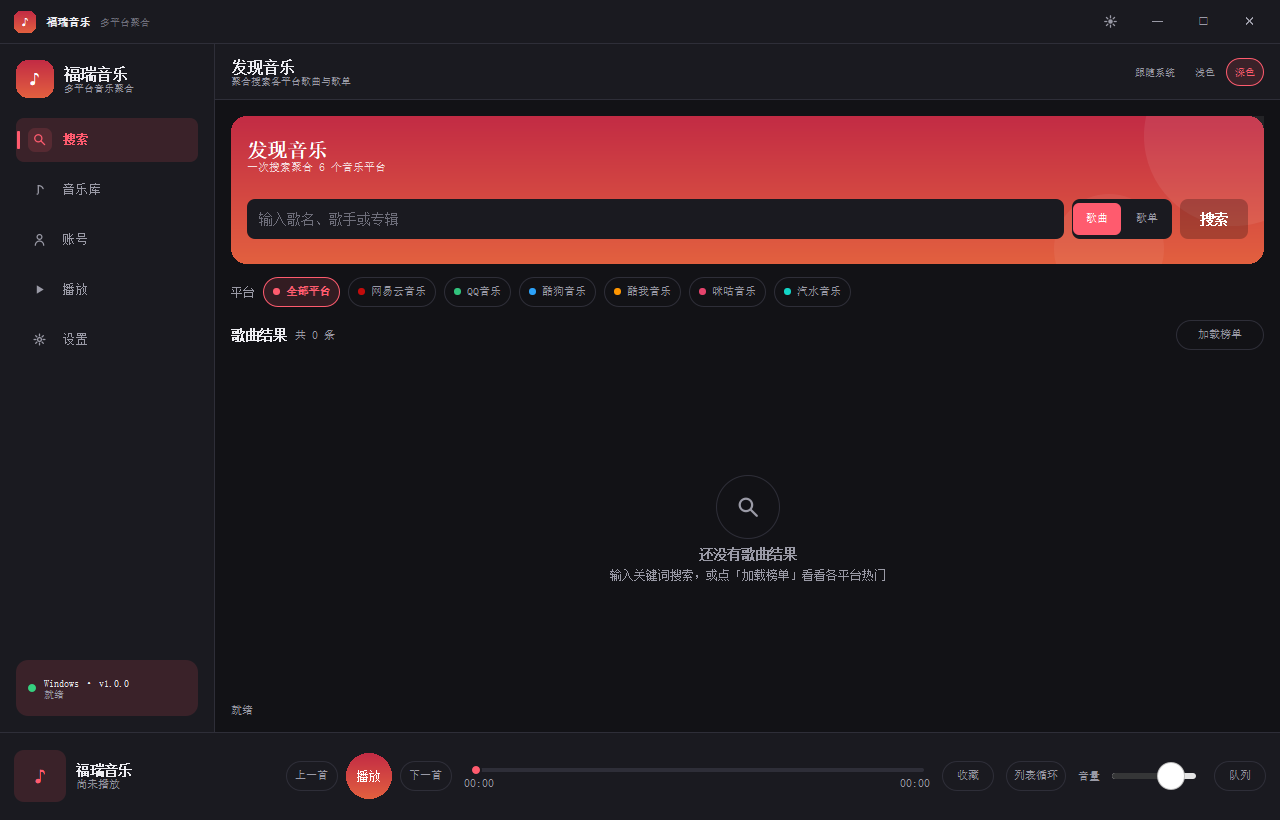
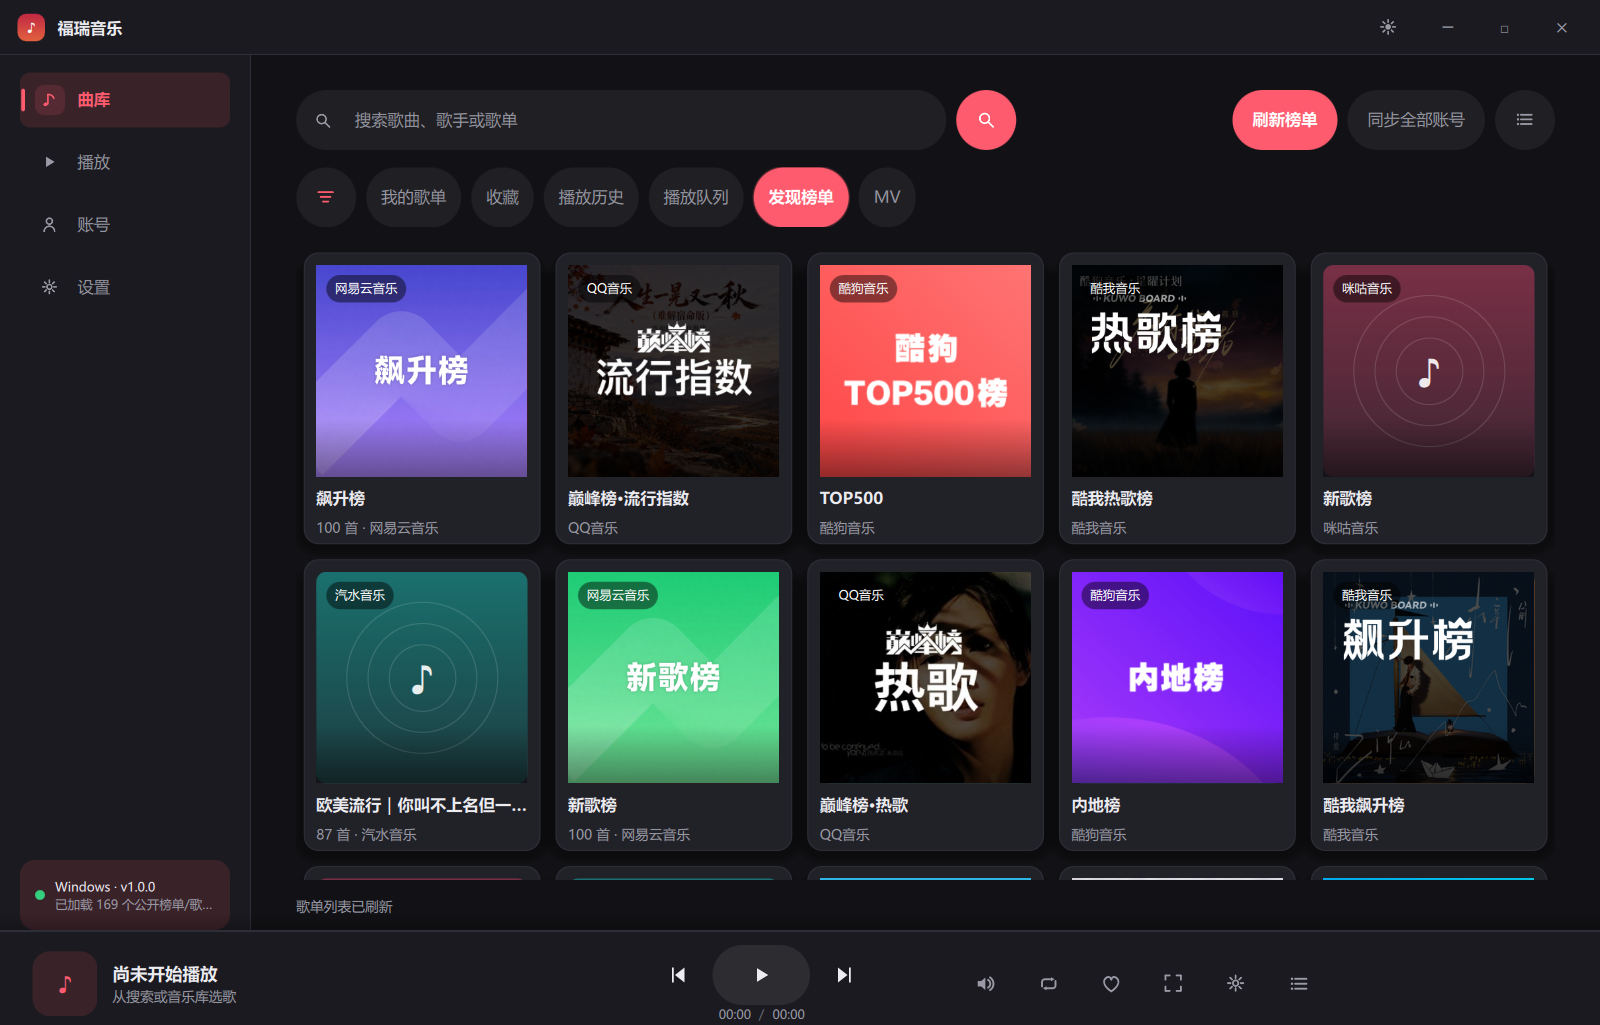
docs: 更新 README 版本产物目录章节与发现榜单截图
- README 新增「可分发产物目录」小节，更新构建脚本/Android 输出/目录结构/已知限制里的 bin 表述

- 3 张 README 截图更新为最新 UI（深色/浅色发现榜单 + 窄屏移动外壳深色）

diff --git a/README.md b/README.md
@@ -100,7 +100,7 @@ cmake --build build --target FuruiMusic --parallel
 - 核心逻辑在静态库 `FuruiCore` 中，桌面与 Android 共用。
 - 迁移期保留的 Widgets 旧前端默认不构建，需要时加 `-DFURUI_BUILD_LEGACY_WIDGETS=ON`。
 - 老 Qt 5 / MinGW 8.1 构建里，QuickJS 固定用 `-O1`（`-O2` 会触发 MinGW 8.1 的 SEH 汇编错误）；MSVC 与 MinGW 13.1 下不走该编译参数。
-- **Windows 一键脚本** `src/scripts/build_windows.bat` 主路径已切 Qt 6.11.1 + MinGW 13.1：CMake 增量编译 → 复制 `bin/FuruiMusic.exe` → Qt 6 `windeployqt`（会带出 `ffmpegmediaplugin.dll` 与 `avcodec-61.dll`，MV 才能播）。设置 `FURUI_BUILD_QT5=1` 会先增量编译 Qt5 专用 FFmpeg，再跑 Qt 5 qmake 兼容构建，产物落在 `build/desktop-qt5`，不覆盖主交付。
+- **Windows 一键脚本** `src/scripts/build_windows.bat` 主路径已切 Qt 6.11.1 + MinGW 13.1：CMake 增量编译 → 复制 exe 到 `bin_qt6/` → Qt 6 `windeployqt` 部署运行库（会带出 `ffmpegmediaplugin.dll` 与 `avcodec-61.dll`，MV 才能播）。设置 `FURUI_BUILD_QT5=1` 会先增量编译 Qt5 专用 FFmpeg，再跑 Qt 5 qmake 兼容构建，最终分发产物落在 `bin_qt5/`（`windeployqt` 同样部署 Qt 5 运行库），不覆盖主交付。两个目录里的 exe 都已由 `windeployqt` 部署好运行库，可直接运行。
 
 ### 桌面（qmake，仅 Qt 5 兼容路径）
 
@@ -144,9 +144,23 @@ src/scripts/build_android.sh
 
 Windows 主机对应 `src/scripts/build_android_qt6.bat`。CMake 的 Android 路径**只支持 Qt 6**，Qt 5 会直接报错提示改用 qmake。
 
-`build_android_qt6.bat` 在 `FuruiMusic_make_apk` 之后会自动 `zipalign` + `apksigner` 签名（优先用 `%USERPROFILE%\.android\debug.keystore`，没有则现场生成 debug keystore），产出可直接安装的 `bin/FuruiMusic-android-arm64-v8a.apk` 并跑 `apksigner verify` 复检。`build_android.sh` 与 Qt 6 的 CMake 流程本身只产出 `android-build-release-unsigned.apk`，签名交给 CI 或手工执行；Windows 下 `.bat` 必须是 CRLF 换行，LF 会让 `cmd.exe` 解析错乱。
+`build_android_qt6.bat` 在 `FuruiMusic_make_apk` 之后会自动 `zipalign` + `apksigner` 签名（优先用 `%USERPROFILE%\.android\debug.keystore`，没有则现场生成 debug keystore），产出可直接安装的 `bin_android/FuruiMusic-android-arm64-v8a.apk` 并跑 `apksigner verify` 复检。`build_android.sh` 与 Qt 6 的 CMake 流程本身只产出 `android-build-release-unsigned.apk`，签名交给 CI 或手工执行；Windows 下 `.bat` 必须是 CRLF 换行，LF 会让 `cmd.exe` 解析错乱。
 
 **Android 端两处平台差异（2026-11-10 修复）**：① 图标由 `GlyphImageProvider` 栅格化，Qt 6 Android 的纹理上传对预乘 `QImage` + `QPen` 描边不稳定，图标会退化成黑色方块；现改为非预乘画布 + `QPainterPathStroker` 纯填充路径 + `RGBA8888` 返回，并关闭 QML 侧 `mipmap`。② 网易二维码在重复/空值 Cookie 头下会被风控（`code=-462`，界面提示「获取网络设备失败」一类文案）；现禁用 `QNetworkAccessManager` 自动 Cookie（`Manual` 加载/保存）、Cookie 拼接跳过空值、`Set-Cookie` 去重，并把出码改成 eapi → 明文带设备指纹 → 无 Cookie 明文三级兜底。若仍显示黑块，可查 `logcat` 的 `FuruiGlyph` 行与 App 私有目录下的 `glyph_debug.png`。
+
+### 可分发产物目录（bin_qt5 / bin_qt6 / bin_android）
+
+构建脚本把**可直接运行 / 安装**的产物按工具链与 Qt 版本分开落到三个目录，互相不覆盖：
+
+| 目录 | 内容 | 由谁生成 |
+|---|---|---|
+| `bin_qt6/` | Qt 6.11.1 (MinGW 13.1) 桌面 exe + `windeployqt` 部署的运行库、QML 模块与 FFmpeg 多媒体插件（含 `ffmpegmediaplugin.dll` / `avcodec-61.dll`，MV 才能播） | `src/scripts/build_windows.bat`（默认主路径） |
+| `bin_qt5/` | Qt 5.15.2 (MinGW 8.1) 桌面 exe + 运行库（`FURUI_BUILD_QT5=1` 时生成；自编译 FFmpeg 静态库已链进 exe，不需额外 DLL） | `src/scripts/build_windows.bat`（设 `FURUI_BUILD_QT5=1`） |
+| `bin_android/` | 已 `zipalign` + `apksigner` 签名的 `FuruiMusic-android-arm64-v8a.apk`（可直接安装） | `src/scripts/build_android_qt6.bat` |
+
+- 三个目录**全部本地生成、不入库**（`.gitignore` 已排除 `bin_qt5/`、`bin_qt6/`、`bin_android/`、`*.exe`、`*.dll`、`*.apk`）。`build*/` 只放增量构建中间物，分发产物统一收口到这三个目录，便于整体打包或单独拷给测试机。
+- Windows 上直接双击 `bin_qt6/FuruiMusic.exe`（或 `bin_qt5/FuruiMusic.exe`）即可启动，无需再手动 `windeployqt`。
+- 旧的单一 `bin/` 目录已弃用：主交付改走 `bin_qt6/`，Qt 5 兼容构建走 `bin_qt5/`，Android 走 `bin_android/`，避免不同工具链的 DLL 混在同一目录互相覆盖。
 
 ### 运行期自检（可选）
 
@@ -221,7 +235,7 @@ Windows 主机对应 `src/scripts/build_android_qt6.bat`。CMake 的 Android 路
 - **宿主能力边界**：在线脚本运行时的 `crypto.aesEncrypt`、`crypto.rsaEncrypt`、`utils.zlib` 为显式桩（本次 5 个公开源未使用），用到时会明确报“宿主未实现该能力”。
 - **未实机验证**：Linux、macOS 仅有构建配置/脚本；Android 已完成 Qt 6 编译、签名与界面真机运行，图标/二维码修复待用户复测；Windows 为唯一完整实机验证的桌面平台。
 - **旧 Widgets 前端**：`src/desktop/` 为迁移期保留，默认不编译、不再新增功能。
-- 仓库不包含 `bin/`（运行库、OpenSSL DLL、APK）与 `reference/`（本地研究用的洛雪源码副本），所以 `src/docs/multi-platform-music-research.md` 中指向 `reference/...` 的路径在远端不可访问。
+- 仓库不包含 `bin_qt5/` / `bin_qt6/` / `bin_android/`（运行库、OpenSSL DLL、签名 APK，全部本地构建产物）与 `reference/`（本地研究用的洛雪源码副本），所以 `src/docs/multi-platform-music-research.md` 中指向 `reference/...` 的路径在远端不可访问。
 
 ## 在线音源实测（2026-11-09）
 
@@ -250,14 +264,16 @@ Windows 主机对应 `src/scripts/build_android_qt6.bat`。CMake 的 Android 路
 
 ## 目录结构
 
-源码、资源、配置、脚本、Android 打包资源与文档都在 `src/`；仓库根另有 `CMakeLists.txt`（薄转发到 `src`，方便 `cmake -S . -B build`）、说明、许可证与 CI（以及不入库的 `bin/`、`build*/`、`reference/` 本机产物）。构建命令用 `-S src` 或 `-S .` 均可，但同一个 build 目录不能混用两种源目录。
+源码、资源、配置、脚本、Android 打包资源与文档都在 `src/`；仓库根另有 `CMakeLists.txt`（薄转发到 `src`，方便 `cmake -S . -B build`）、说明、许可证与 CI（以及不入库的 `bin_qt5/` / `bin_qt6/` / `bin_android/`、`build*/`、`reference/` 本机产物）。构建命令用 `-S src` 或 `-S .` 均可，但同一个 build 目录不能混用两种源目录。
 
 ```
 .
 ├── README.md  LICENSE  .gitignore     # 仓库说明与元信息
 ├── CMakeLists.txt                     # 根入口：add_subdirectory(src)
 ├── .github/workflows/                 # Release 工作流（见下）
-├── bin/                               # 本机运行产物：exe / DLL / APK（不入库）
+├── bin_qt6/                          # Qt 6 桌面可分发产物：windeployqt 部署的 exe + 运行库/QML/FFmpeg 插件（不入库）
+├── bin_qt5/                          # Qt 5 桌面可分发产物（自编译 FFmpeg 后端，不入库）
+├── bin_android/                      # Android 签名 APK（arm64-v8a，不入库）
 ├── build*/                            # 本机增量构建目录（不入库）
 ├── build_output/                      # FFmpeg 静态库等本机产物（不入库）
 ├── reference/                         # 本地研究用参考源码（不入库）
